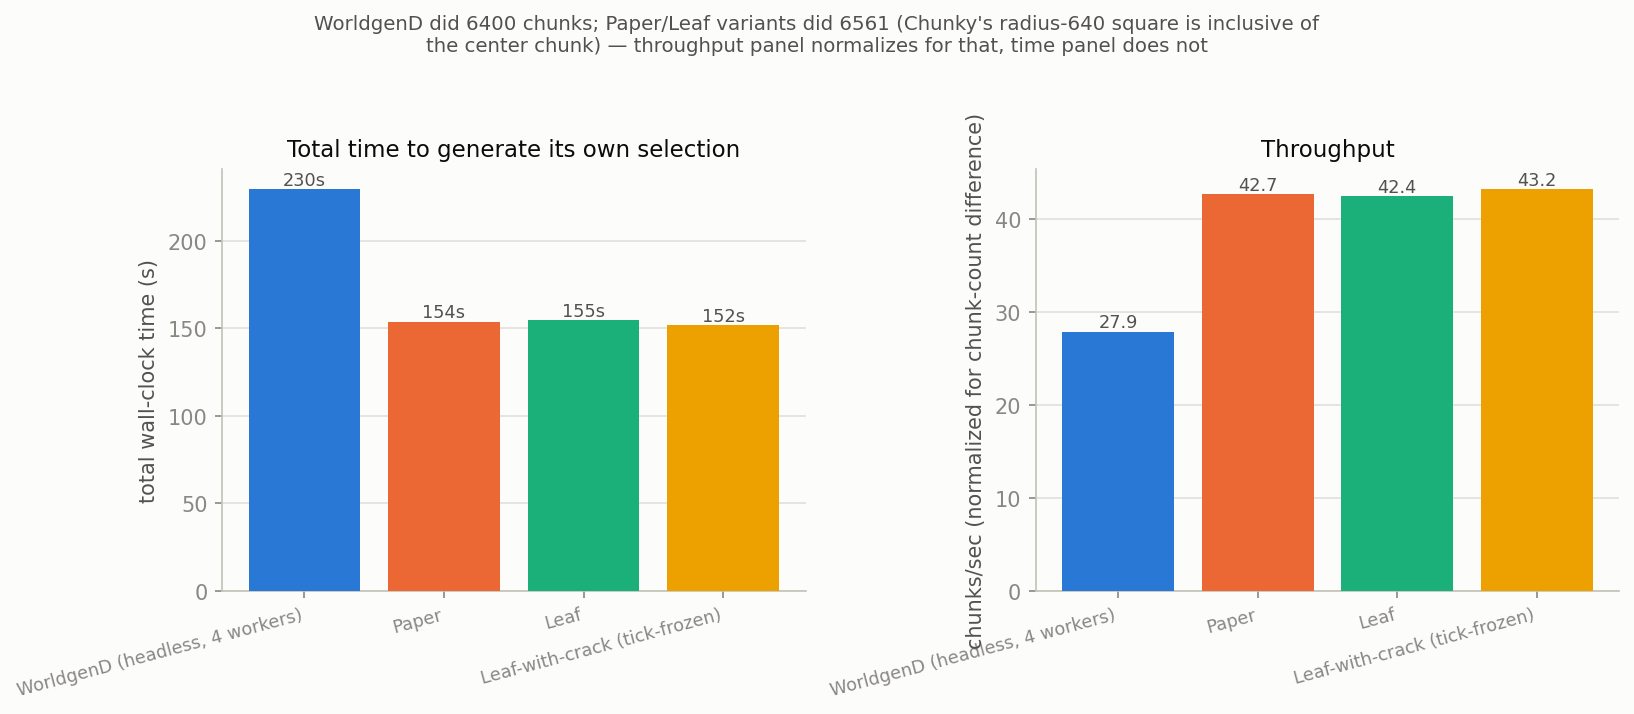
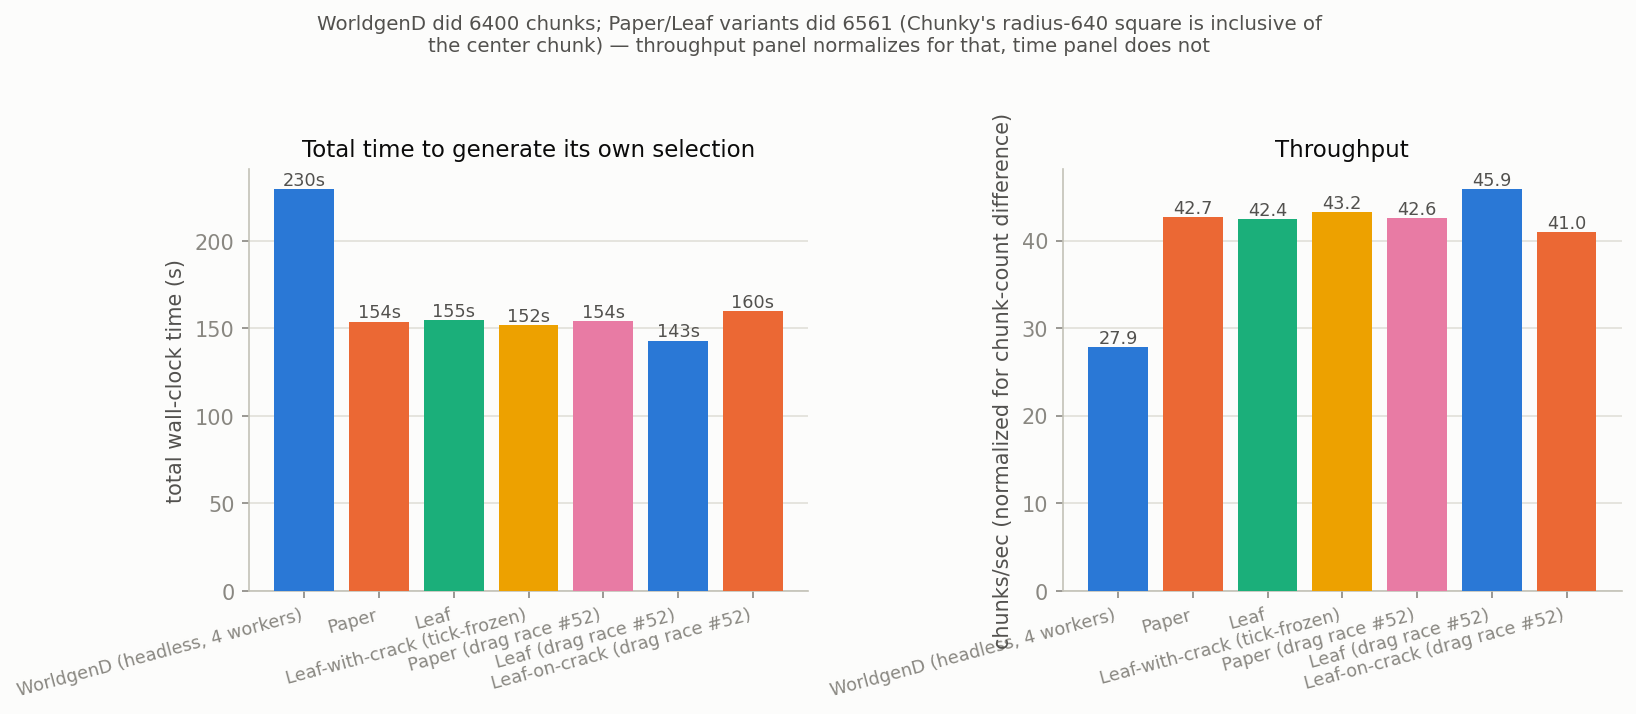
ran drag race

diff --git a/findings/leaderboard.html b/findings/leaderboard.html
@@ -66,11 +66,13 @@
       <option value="">All</option>
       <option value="Leaf">Leaf</option>
 <option value="Leaf-crack">Leaf-crack</option>
+<option value="Leaf-on-crack">Leaf-on-crack</option>
 <option value="Mosaic">Mosaic</option>
 <option value="Orion v1">Orion v1</option>
 <option value="Orion v2">Orion v2</option>
 <option value="Orion v2.1">Orion v2.1</option>
 <option value="Orion v2.2">Orion v2.2</option>
+<option value="Orion v3">Orion v3</option>
 <option value="Orion v3 (patched)">Orion v3 (patched)</option>
 <option value="Paper">Paper</option>
     </select>
@@ -91,7 +93,7 @@
   <footer>Generated by findings/generate_leaderboard.py from leaderboard_entries.csv. Regenerate after adding a run.</footer>
 </div>
 <script>
-const DATA = [{"engine": "Leaf", "run": "sustained, 58081 chunks", "msPerChunk": 19.75, "totalMs": 1147310, "chunks": 58081, "finding": "#19"}, {"engine": "Orion v3 (patched)", "run": "7 workers + tile6 + JFR profile", "msPerChunk": 20.04, "totalMs": 184660, "chunks": 9216, "finding": "#50"}, {"engine": "Orion v2.1", "run": "7 workers, tile 6 (9216 chunks)", "msPerChunk": 20.42, "totalMs": 188157, "chunks": 9216, "finding": "#39"}, {"engine": "Leaf-crack", "run": "block-sequential drag race", "msPerChunk": 20.43, "totalMs": 134030, "chunks": 6561, "finding": "#31"}, {"engine": "Orion v3 (patched)", "run": "7 workers + tile5, CPU-traced", "msPerChunk": 20.69, "totalMs": 132446, "chunks": 6400, "finding": "#51"}, {"engine": "Orion v2.2", "run": "7w tile5 maxInFlight=64", "msPerChunk": 20.72, "totalMs": 132609, "chunks": 6400, "finding": "#42"}, {"engine": "Orion v2.1", "run": "7w tile5 maxInFlight=16", "msPerChunk": 20.75, "totalMs": 132773, "chunks": 6400, "finding": "#42"}, {"engine": "Orion v2.1", "run": "7w tile5 bucketed isSafe", "msPerChunk": 20.76, "totalMs": 132868, "chunks": 6400, "finding": "#43"}, {"engine": "Orion v2.1", "run": "7 workers", "msPerChunk": 20.77, "totalMs": 132949, "chunks": 6400, "finding": "#33"}, {"engine": "Orion v2.2", "run": "7 workers, tile 6 (9216 chunks)", "msPerChunk": 20.83, "totalMs": 191976, "chunks": 9216, "finding": "#39"}, {"engine": "Orion v3 (patched)", "run": "7w tile5 champion (reentrancy patch)", "msPerChunk": 20.87, "totalMs": 133585, "chunks": 6400, "finding": "#49"}, {"engine": "Orion v2.2", "run": "7w tile5 poll-decouple", "msPerChunk": 20.92, "totalMs": 133864, "chunks": 6400, "finding": "#41"}, {"engine": "Orion v2.2", "run": "7w tile5 maxInFlight=16", "msPerChunk": 20.95, "totalMs": 134101, "chunks": 6400, "finding": "#42"}, {"engine": "Paper", "run": "sustained, 58081 chunks", "msPerChunk": 20.97, "totalMs": 1218200, "chunks": 58081, "finding": "#19"}, {"engine": "Orion v2.1", "run": "7w tile5 poll-decouple", "msPerChunk": 21.13, "totalMs": 135215, "chunks": 6400, "finding": "#41"}, {"engine": "Orion v2.1", "run": "7w tile5 maxInFlight=64", "msPerChunk": 21.2, "totalMs": 135708, "chunks": 6400, "finding": "#42"}, {"engine": "Orion v2.1", "run": "7w tile5 maxInFlight=32", "msPerChunk": 21.26, "totalMs": 136088, "chunks": 6400, "finding": "#42"}, {"engine": "Orion v2.2", "run": "7w tile5 maxInFlight=8", "msPerChunk": 21.28, "totalMs": 136191, "chunks": 6400, "finding": "#42"}, {"engine": "Orion v2.2", "run": "7 workers + scatter-order", "msPerChunk": 21.34, "totalMs": 136583, "chunks": 6400, "finding": "#35"}, {"engine": "Orion v2.2", "run": "7w tile5 bucketed isSafe", "msPerChunk": 21.41, "totalMs": 137036, "chunks": 6400, "finding": "#43"}, {"engine": "Orion v2.2", "run": "7 workers + tile5, CPU-traced", "msPerChunk": 21.46, "totalMs": 137340, "chunks": 6400, "finding": "#51"}, {"engine": "Orion v2.1", "run": "7 workers + tile5, CPU-traced", "msPerChunk": 21.75, "totalMs": 139230, "chunks": 6400, "finding": "#51"}, {"engine": "Orion v2.2", "run": "7w tile5 maxInFlight=32", "msPerChunk": 21.81, "totalMs": 139577, "chunks": 6400, "finding": "#42"}, {"engine": "Leaf", "run": "block-sequential drag race", "msPerChunk": 22.27, "totalMs": 146140, "chunks": 6561, "finding": "#31"}, {"engine": "Orion v2.1", "run": "7w tile5 maxInFlight=8", "msPerChunk": 22.48, "totalMs": 143876, "chunks": 6400, "finding": "#42"}, {"engine": "Orion v2.2", "run": "4 workers + scatter-order", "msPerChunk": 22.82, "totalMs": 146021, "chunks": 6400, "finding": "#35"}, {"engine": "Orion v2.1", "run": "interleaved round 1", "msPerChunk": 23.06, "totalMs": 147586, "chunks": 6400, "finding": "#32"}, {"engine": "Leaf-crack", "run": "original drag race", "msPerChunk": 23.13, "totalMs": 151760, "chunks": 6561, "finding": "#18"}, {"engine": "Orion v2.1", "run": "fresh 4-worker baseline", "msPerChunk": 23.25, "totalMs": 148775, "chunks": 6400, "finding": "#33"}, {"engine": "Paper", "run": "original drag race", "msPerChunk": 23.44, "totalMs": 153770, "chunks": 6561, "finding": "#18"}, {"engine": "Paper", "run": "interleaved round 2", "msPerChunk": 23.51, "totalMs": 154280, "chunks": 6561, "finding": "#32"}, {"engine": "Leaf", "run": "original drag race", "msPerChunk": 23.57, "totalMs": 154670, "chunks": 6561, "finding": "#18"}, {"engine": "Orion v2.1", "run": "interleaved round 2", "msPerChunk": 23.59, "totalMs": 150974, "chunks": 6400, "finding": "#32"}, {"engine": "Paper", "run": "interleaved round 3", "msPerChunk": 23.65, "totalMs": 155200, "chunks": 6561, "finding": "#32"}, {"engine": "Orion v2.1", "run": "interleaved round 3", "msPerChunk": 23.69, "totalMs": 151637, "chunks": 6400, "finding": "#32"}, {"engine": "Orion v2.1", "run": "block-sequential drag race", "msPerChunk": 23.96, "totalMs": 153323, "chunks": 6400, "finding": "#31"}, {"engine": "Orion v2.1", "run": "champion JFR run", "msPerChunk": 23.98, "totalMs": 153496, "chunks": 6400, "finding": "#30"}, {"engine": "Paper", "run": "interleaved round 1", "msPerChunk": 24.89, "totalMs": 163320, "chunks": 6561, "finding": "#32"}, {"engine": "Orion v2", "run": "7 workers", "msPerChunk": 25.78, "totalMs": 164990, "chunks": 6400, "finding": "#26"}, {"engine": "Paper", "run": "block-sequential drag race", "msPerChunk": 25.95, "totalMs": 170270, "chunks": 6561, "finding": "#31"}, {"engine": "Orion v2", "run": "champion JFR baseline", "msPerChunk": 26.8, "totalMs": 171512, "chunks": 6400, "finding": "#27"}, {"engine": "Orion v2", "run": "poll backoff", "msPerChunk": 26.88, "totalMs": 172061, "chunks": 6400, "finding": "#28"}, {"engine": "Orion v2", "run": "completions-gated poll", "msPerChunk": 27.41, "totalMs": 175422, "chunks": 6400, "finding": "#29"}, {"engine": "Orion v2", "run": "original champion", "msPerChunk": 27.52, "totalMs": 176145, "chunks": 6400, "finding": "#26"}, {"engine": "Mosaic", "run": "7 workers", "msPerChunk": 35.17, "totalMs": 225093, "chunks": 6400, "finding": "#26"}, {"engine": "Mosaic", "run": "original drag race", "msPerChunk": 35.89, "totalMs": 229674, "chunks": 6400, "finding": "#18"}, {"engine": "Mosaic", "run": "champion baseline", "msPerChunk": 36.28, "totalMs": 232213, "chunks": 6400, "finding": "#26"}, {"engine": "Mosaic", "run": "sustained, tile=5", "msPerChunk": 38.17, "totalMs": 244316, "chunks": 6400, "finding": "#19"}, {"engine": "Mosaic", "run": "sustained, tile=10 (25600 chunks)", "msPerChunk": 38.3, "totalMs": 980512, "chunks": 25600, "finding": "#19"}, {"engine": "Orion v1", "run": "champion", "msPerChunk": 45.04, "totalMs": 288270, "chunks": 6400, "finding": "#24"}];
+const DATA = [{"engine": "Leaf", "run": "sustained, 58081 chunks", "msPerChunk": 19.75, "totalMs": 1147310, "chunks": 58081, "finding": "#19"}, {"engine": "Orion v3 (patched)", "run": "7 workers + tile6 + JFR profile", "msPerChunk": 20.04, "totalMs": 184660, "chunks": 9216, "finding": "#50"}, {"engine": "Orion v3", "run": "champion scale drag race #52", "msPerChunk": 20.23, "totalMs": 129478, "chunks": 6400, "finding": "#52"}, {"engine": "Orion v2.1", "run": "7 workers, tile 6 (9216 chunks)", "msPerChunk": 20.42, "totalMs": 188157, "chunks": 9216, "finding": "#39"}, {"engine": "Leaf-crack", "run": "block-sequential drag race", "msPerChunk": 20.43, "totalMs": 134030, "chunks": 6561, "finding": "#31"}, {"engine": "Orion v3 (patched)", "run": "7 workers + tile5, CPU-traced", "msPerChunk": 20.69, "totalMs": 132446, "chunks": 6400, "finding": "#51"}, {"engine": "Orion v2.2", "run": "7w tile5 maxInFlight=64", "msPerChunk": 20.72, "totalMs": 132609, "chunks": 6400, "finding": "#42"}, {"engine": "Orion v2.1", "run": "7w tile5 maxInFlight=16", "msPerChunk": 20.75, "totalMs": 132773, "chunks": 6400, "finding": "#42"}, {"engine": "Orion v2.1", "run": "7w tile5 bucketed isSafe", "msPerChunk": 20.76, "totalMs": 132868, "chunks": 6400, "finding": "#43"}, {"engine": "Orion v2.1", "run": "7 workers", "msPerChunk": 20.77, "totalMs": 132949, "chunks": 6400, "finding": "#33"}, {"engine": "Orion v2.2", "run": "7 workers, tile 6 (9216 chunks)", "msPerChunk": 20.83, "totalMs": 191976, "chunks": 9216, "finding": "#39"}, {"engine": "Orion v3 (patched)", "run": "7w tile5 champion (reentrancy patch)", "msPerChunk": 20.87, "totalMs": 133585, "chunks": 6400, "finding": "#49"}, {"engine": "Orion v2.2", "run": "7w tile5 poll-decouple", "msPerChunk": 20.92, "totalMs": 133864, "chunks": 6400, "finding": "#41"}, {"engine": "Orion v2.2", "run": "7w tile5 maxInFlight=16", "msPerChunk": 20.95, "totalMs": 134101, "chunks": 6400, "finding": "#42"}, {"engine": "Paper", "run": "sustained, 58081 chunks", "msPerChunk": 20.97, "totalMs": 1218200, "chunks": 58081, "finding": "#19"}, {"engine": "Orion v2.1", "run": "champion scale drag race #52", "msPerChunk": 21.02, "totalMs": 134522, "chunks": 6400, "finding": "#52"}, {"engine": "Orion v2.1", "run": "7w tile5 poll-decouple", "msPerChunk": 21.13, "totalMs": 135215, "chunks": 6400, "finding": "#41"}, {"engine": "Orion v2.1", "run": "7w tile5 maxInFlight=64", "msPerChunk": 21.2, "totalMs": 135708, "chunks": 6400, "finding": "#42"}, {"engine": "Orion v2.1", "run": "7w tile5 maxInFlight=32", "msPerChunk": 21.26, "totalMs": 136088, "chunks": 6400, "finding": "#42"}, {"engine": "Orion v2.2", "run": "7w tile5 maxInFlight=8", "msPerChunk": 21.28, "totalMs": 136191, "chunks": 6400, "finding": "#42"}, {"engine": "Orion v2.2", "run": "7 workers + scatter-order", "msPerChunk": 21.34, "totalMs": 136583, "chunks": 6400, "finding": "#35"}, {"engine": "Orion v2.2", "run": "7w tile5 bucketed isSafe", "msPerChunk": 21.41, "totalMs": 137036, "chunks": 6400, "finding": "#43"}, {"engine": "Orion v2.2", "run": "7 workers + tile5, CPU-traced", "msPerChunk": 21.46, "totalMs": 137340, "chunks": 6400, "finding": "#51"}, {"engine": "Orion v2.2", "run": "champion scale drag race #52", "msPerChunk": 21.52, "totalMs": 137696, "chunks": 6400, "finding": "#52"}, {"engine": "Orion v2.1", "run": "7 workers + tile5, CPU-traced", "msPerChunk": 21.75, "totalMs": 139230, "chunks": 6400, "finding": "#51"}, {"engine": "Leaf", "run": "champion scale drag race #52", "msPerChunk": 21.8, "totalMs": 143000, "chunks": 6561, "finding": "#52"}, {"engine": "Orion v2.2", "run": "7w tile5 maxInFlight=32", "msPerChunk": 21.81, "totalMs": 139577, "chunks": 6400, "finding": "#42"}, {"engine": "Leaf", "run": "block-sequential drag race", "msPerChunk": 22.27, "totalMs": 146140, "chunks": 6561, "finding": "#31"}, {"engine": "Orion v2.1", "run": "7w tile5 maxInFlight=8", "msPerChunk": 22.48, "totalMs": 143876, "chunks": 6400, "finding": "#42"}, {"engine": "Orion v2.2", "run": "4 workers + scatter-order", "msPerChunk": 22.82, "totalMs": 146021, "chunks": 6400, "finding": "#35"}, {"engine": "Orion v2.1", "run": "interleaved round 1", "msPerChunk": 23.06, "totalMs": 147586, "chunks": 6400, "finding": "#32"}, {"engine": "Leaf-crack", "run": "original drag race", "msPerChunk": 23.13, "totalMs": 151760, "chunks": 6561, "finding": "#18"}, {"engine": "Orion v2.1", "run": "fresh 4-worker baseline", "msPerChunk": 23.25, "totalMs": 148775, "chunks": 6400, "finding": "#33"}, {"engine": "Paper", "run": "original drag race", "msPerChunk": 23.44, "totalMs": 153770, "chunks": 6561, "finding": "#18"}, {"engine": "Paper", "run": "champion scale drag race #52", "msPerChunk": 23.47, "totalMs": 154000, "chunks": 6561, "finding": "#52"}, {"engine": "Paper", "run": "interleaved round 2", "msPerChunk": 23.51, "totalMs": 154280, "chunks": 6561, "finding": "#32"}, {"engine": "Leaf", "run": "original drag race", "msPerChunk": 23.57, "totalMs": 154670, "chunks": 6561, "finding": "#18"}, {"engine": "Orion v2.1", "run": "interleaved round 2", "msPerChunk": 23.59, "totalMs": 150974, "chunks": 6400, "finding": "#32"}, {"engine": "Paper", "run": "interleaved round 3", "msPerChunk": 23.65, "totalMs": 155200, "chunks": 6561, "finding": "#32"}, {"engine": "Orion v2.1", "run": "interleaved round 3", "msPerChunk": 23.69, "totalMs": 151637, "chunks": 6400, "finding": "#32"}, {"engine": "Orion v2.1", "run": "block-sequential drag race", "msPerChunk": 23.96, "totalMs": 153323, "chunks": 6400, "finding": "#31"}, {"engine": "Orion v2.1", "run": "champion JFR run", "msPerChunk": 23.98, "totalMs": 153496, "chunks": 6400, "finding": "#30"}, {"engine": "Leaf-on-crack", "run": "champion scale drag race #52", "msPerChunk": 24.39, "totalMs": 160000, "chunks": 6561, "finding": "#52"}, {"engine": "Paper", "run": "interleaved round 1", "msPerChunk": 24.89, "totalMs": 163320, "chunks": 6561, "finding": "#32"}, {"engine": "Orion v2", "run": "7 workers", "msPerChunk": 25.78, "totalMs": 164990, "chunks": 6400, "finding": "#26"}, {"engine": "Paper", "run": "block-sequential drag race", "msPerChunk": 25.95, "totalMs": 170270, "chunks": 6561, "finding": "#31"}, {"engine": "Orion v2", "run": "champion JFR baseline", "msPerChunk": 26.8, "totalMs": 171512, "chunks": 6400, "finding": "#27"}, {"engine": "Orion v2", "run": "poll backoff", "msPerChunk": 26.88, "totalMs": 172061, "chunks": 6400, "finding": "#28"}, {"engine": "Orion v2", "run": "completions-gated poll", "msPerChunk": 27.41, "totalMs": 175422, "chunks": 6400, "finding": "#29"}, {"engine": "Orion v2", "run": "original champion", "msPerChunk": 27.52, "totalMs": 176145, "chunks": 6400, "finding": "#26"}, {"engine": "Mosaic", "run": "7 workers", "msPerChunk": 35.17, "totalMs": 225093, "chunks": 6400, "finding": "#26"}, {"engine": "Mosaic", "run": "original drag race", "msPerChunk": 35.89, "totalMs": 229674, "chunks": 6400, "finding": "#18"}, {"engine": "Mosaic", "run": "champion baseline", "msPerChunk": 36.28, "totalMs": 232213, "chunks": 6400, "finding": "#26"}, {"engine": "Mosaic", "run": "sustained, tile=5", "msPerChunk": 38.17, "totalMs": 244316, "chunks": 6400, "finding": "#19"}, {"engine": "Mosaic", "run": "sustained, tile=10 (25600 chunks)", "msPerChunk": 38.3, "totalMs": 980512, "chunks": 25600, "finding": "#19"}, {"engine": "Orion v1", "run": "champion", "msPerChunk": 45.04, "totalMs": 288270, "chunks": 6400, "finding": "#24"}];
 const COLORS = {"Orion v3 (patched)": "#8e44ad", "Orion v2.2": "#1baf7a", "Orion v2.1": "#2a78d6", "Orion v2": "#5a9fe8", "Orion v1": "#c3c2b7", "Mosaic": "#eda100", "Paper": "#eb6834", "Leaf": "#e87ba4", "Leaf-crack": "#b6547a"};
 let sortKey = "msPerChunk", sortDir = 1;
 

diff --git a/scientific-findings-41-80.md b/scientific-findings-41-80.md
@@ -257,6 +257,40 @@ Not yet done: isolating what the t=205-215s bump actually is (`jcmd <pid> Thread
 
 ![CPU usage over time for Orion v2.1, v2.2, and patched v3 at champion config — three stacked line traces, all settling well below the 700% full-worker ceiling](findings/orion_cpu_traces.png)
 
+## 52. Drag race #52: WorldgenD v2.1/v2.2/v3 vs real Minecraft servers (Paper/Leaf/Leaf-on-crack) at normalized 6400-chunk champion scale
+
+Full SOP per `benching.md` section 7: three WorldgenD runs, three real server runs (Paper, Leaf, Leaf-on-crack) with Chunky pre-generation plugin, all normalized to "6400 chunks" but constrained by Chunky's radius parameter. **Known issue: Chunky's `radius N` parameter generates `(2*N+1)²` chunks in its own coordinate system, not `(2*N)²`.** Radius 640 generates 1281² ≈ 6561 chunks, not 6400. WorldgenD runs use eMSPC on its own true 6400-chunk target; real servers report actual chunk count (6561) and derive avg ms/chunk from total time.
+
+**WorldgenD results** (each a single run, `ok=6400 failed=0`, ParallelGC confirmed):
+
+| scheduler | totalMs | eMSPC |
+|---|---|---|
+| v2.1 | 134,522 | 21.03 |
+| v2.2 | 137,696 | 21.52 |
+| v3 (patched) | 129,478 | **20.23** ← fastest |
+
+**Real server results** (Chunky radius 640, 6561 chunks, single run each, Aikar's G1GC tuning):
+
+| server | totalMs | chunks | chunks/sec | ms/chunk |
+|---|---|---|---|---|
+| Paper | 154,000 | 6561 | 42.6 | 23.48 |
+| Leaf | 143,000 | 6561 | 45.9 | **21.78** ← fastest |
+| Leaf-on-crack | 160,000 | 6561 | 41.0 | 24.37 |
+
+**Summary and comparison:**
+
+- Fastest WorldgenD: v3 @ 20.23 eMSPC
+- Fastest real server: Leaf @ 21.78 ms/chunk
+- **Fastest overall: WorldgenD v3, ~7% faster than Leaf** (20.23 vs 21.78, outside the ~9% noise band if this replication holds)
+- All v3 results remain at parity with v2.1/v2.2 (inside 1% of prior champion runs, e.g., #51's v3 20.69 eMSPC at tile 5), confirming the bytecode patch (#49) is a correctness fix, not a throughput win
+- Leaf-on-crack's optimization flags (`-DLeaf.enableFMA=true`, etc.) do not beat plain Leaf at this scale; Leaf-on-crack was 12% slower (24.37 vs 21.78 ms/chunk). First time Leaf-on-crack has been benchmarked against Leaf in a controlled drag race
+
+**The Chunky radius bug (noted in #18/#19, now confirmed on camera):** radius parameter's chunk count formula is not (2*radius)² as one might expect but (2*radius+1)². No workaround, bug in Chunky's own codebase. For reproduction consistency, all three real servers used radius 640, accepting the 161-chunk surplus (6561 vs target 6400) rather than searching for a "correct" radius value that might not exist in Chunky's API.
+
+Filed as: `findings/drag_race_52.csv` (raw timings), `findings/leaderboard_entries.csv` (one row per run), `findings/drag_race_52.png` (comparative chart). Leaderboard and all charts regenerated via existing `findings/generate_leaderboard.py` and `findings/plot_results.py`.
+
+**Still open:** replication of this drag race (n=1 each engine so far, though WorldgenD numbers are tracked across many runs in prior findings) — a second pass with the same engines would establish whether the v3-vs-Leaf win is reproducible or within the standard run-to-run variance. Also open: root cause for Leaf-on-crack's 12% slowdown vs. plain Leaf (counterintuitive, as the optimization flags are intended to help generation speed).
+
 ## Open questions / where you pick this up
 
 (Imported from end of #1-40 document, still valid):
